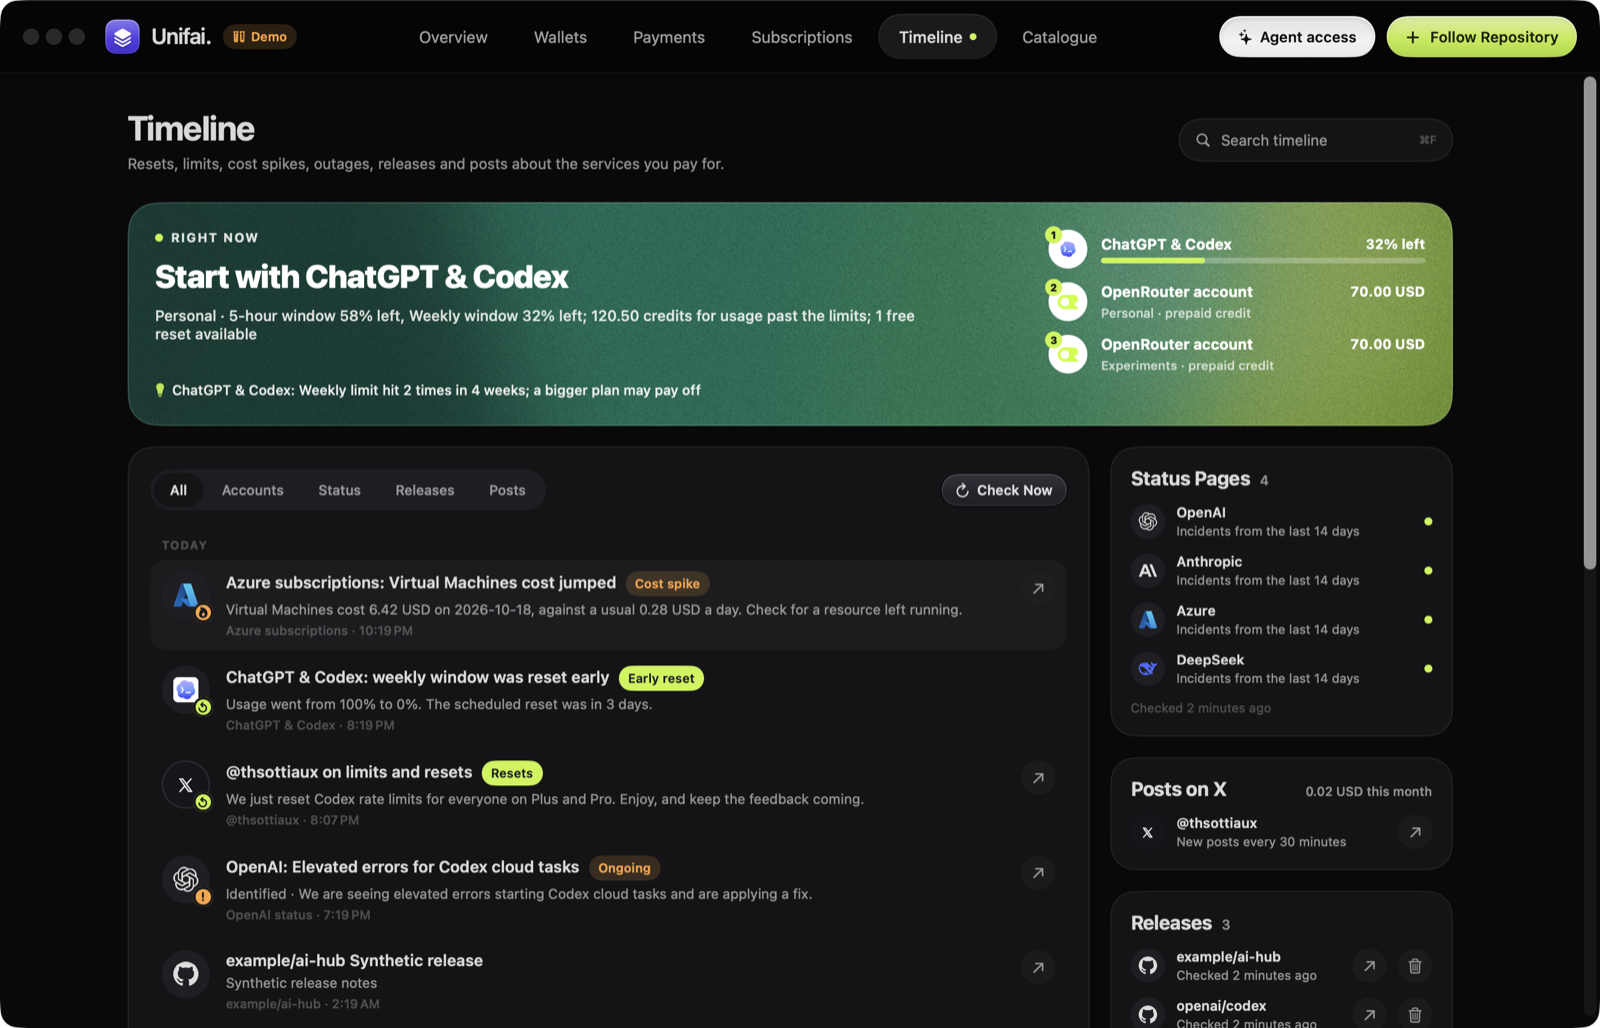
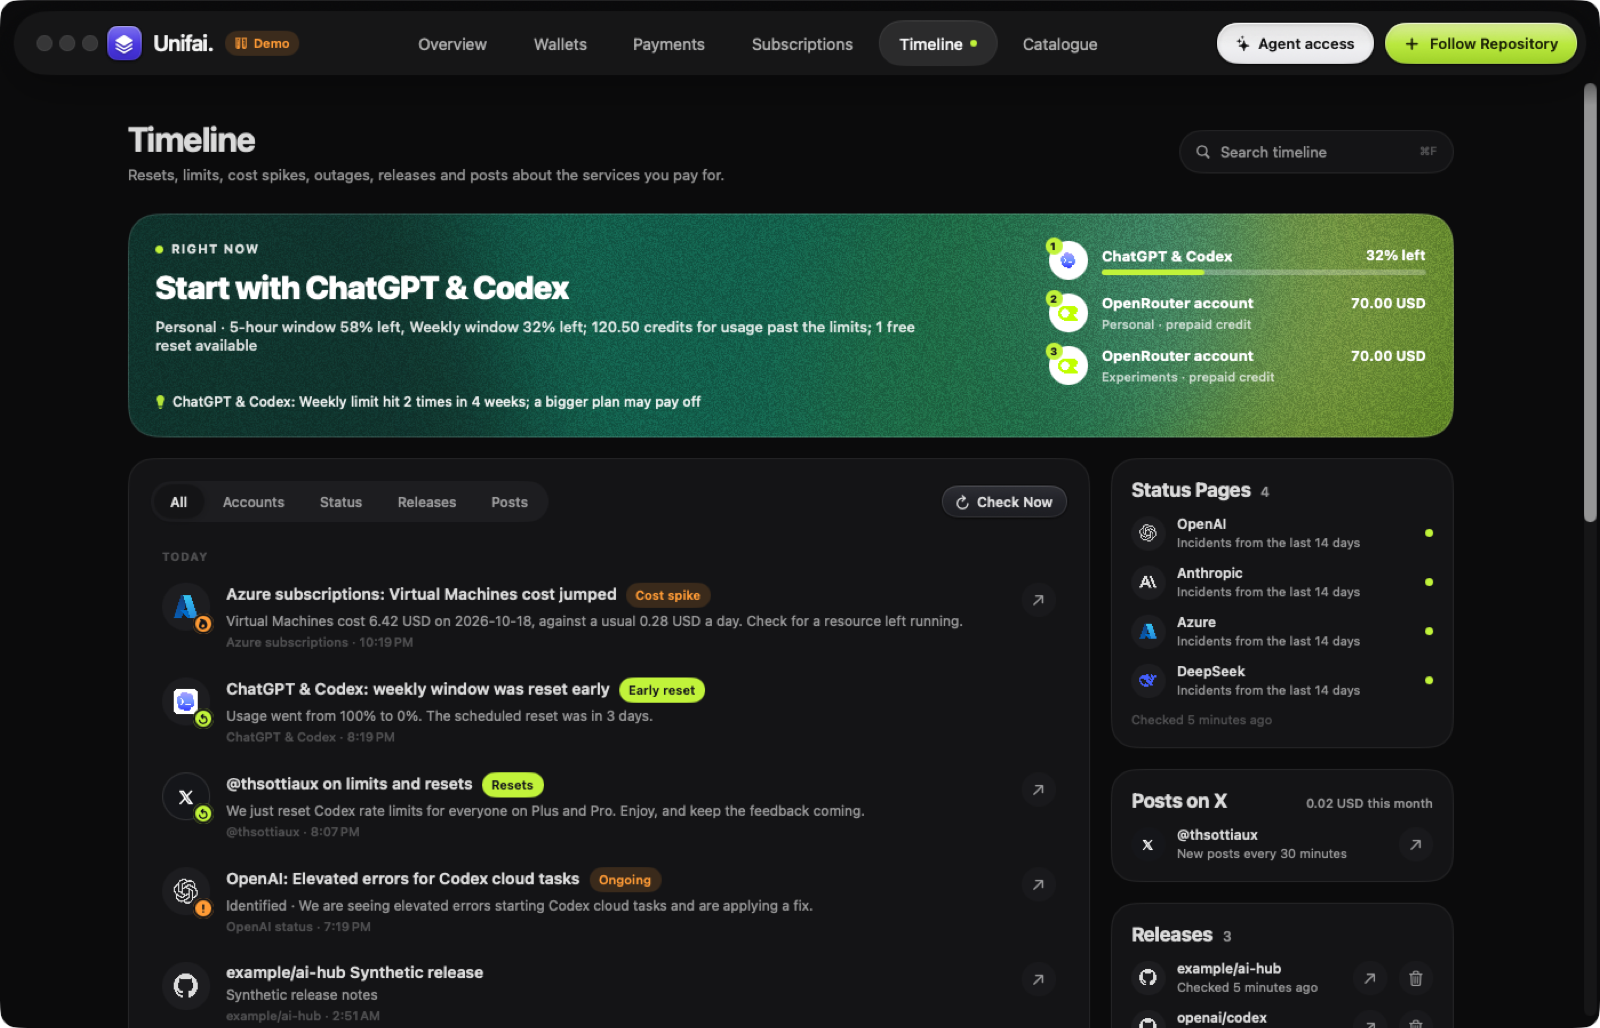
Floating glass top bar
- Top bar is a capsule inset from the window edges, with the window buttons inside its left end
- Liquid Glass on macOS 26, frosted material before; pages scroll under it with a soft fade
- X accounts listed as available in the catalogue; GitHub entry describes automatic checks
- Refreshed README screenshots

diff --git a/Sources/Unifai/MainView.swift b/Sources/Unifai/MainView.swift
@@ -62,8 +62,8 @@ struct MainView: View {
     struct Removal: Identifiable { let id = UUID(); let title: String; let action: () throws -> Void }
 
     var body: some View {
-        VStack(spacing: 0) {
-            topBar
+        // Pages scroll under the floating bar, so the glass has colour to refract.
+        ZStack(alignment: .top) {
             ScrollView {
                 VStack(alignment: .leading, spacing: 0) {
                     if let error = store.loadFailure { InlineNotice(text: error).padding(.bottom, 18) }
@@ -74,13 +74,23 @@ struct MainView: View {
                 .frame(maxWidth: 1240, alignment: .leading)
                 .frame(maxWidth: .infinity)
             }
-            .defaultScrollAnchor(.top)
+            .contentMargins(.top, FloatingBar.reserved, for: .scrollContent)
+            .contentMargins(.top, FloatingBar.reserved - 4, for: .scrollIndicators)
+            .defaultScrollAnchor(AppRuntime.initialScroll ?? .top)
             .id(destination)
             .transition(.identity)
             .background(Palette.canvas)
+            // Soft edge: content fades as it slides under the bar instead of colliding with it.
+            // Solid above the bar so nothing peeks through the gap; a soft fade below it.
+            LinearGradient(stops: [.init(color: Palette.canvas, location: 0), .init(color: Palette.canvas, location: 0.16),
+                                   .init(color: Palette.canvas.opacity(0.7), location: 0.6), .init(color: Palette.canvas.opacity(0), location: 1)],
+                           startPoint: .top, endPoint: .bottom)
+                .frame(height: FloatingBar.reserved + 18)
+                .allowsHitTesting(false)
+            topBar
         }
         .background(Palette.canvas)
-        .background(WindowConfigurator(headerHeight: 64))
+        .background(WindowConfigurator(headerHeight: FloatingBar.inset * 2 + FloatingBar.height, trafficLightsX: FloatingBar.sideInset + 20))
         .ignoresSafeArea(.container, edges: .top)
         .onChange(of: destination) { _, _ in search = "" }
         .task {
@@ -143,11 +153,12 @@ struct MainView: View {
             topBarContent(compact: false)
             topBarContent(compact: true)
         }
-        .padding(.leading, 92).padding(.trailing, 20)
-        .frame(height: 64)
-        .background(WindowDragArea())
-        .background(Palette.bar)
-        .overlay(alignment: .bottom) { Rectangle().fill(Palette.border.opacity(0.7)).frame(height: 1) }
+        // The window buttons sit inside the bar's left end.
+        .padding(.leading, 82).padding(.trailing, 8)
+        .frame(height: FloatingBar.height)
+        .background(WindowDragArea().clipShape(Capsule()))
+        .floatingGlass()
+        .padding(.top, FloatingBar.inset).padding(.horizontal, FloatingBar.sideInset)
     }
 
     private func topBarContent(compact: Bool) -> some View {
@@ -1217,6 +1228,8 @@ struct MainView: View {
                 Spacer()
                 if integration.id == "github-releases" {
                     Button("Follow Repository") { editor = .repository }.buttonStyle(PillButtonStyle(kind: .primary, compact: true))
+                } else if integration.id == "x-accounts" {
+                    Button("Set Up in Settings") { editor = .settings }.buttonStyle(PillButtonStyle(kind: .primary, compact: true))
                 } else if [.providers, .subscriptions, .cloud].contains(integration.category) {
                     if integration.status == .ready {
                         Button("Add Account") { editor = .account(integration, nil) }.buttonStyle(PillButtonStyle(kind: .primary, compact: true))

diff --git a/Sources/Unifai/Design.swift b/Sources/Unifai/Design.swift
@@ -875,15 +875,42 @@ struct AppIconArtwork: View {
 
 /// Makes the main window a single solid surface: transparent title bar over our own header,
 /// draggable from empty areas, opaque background, and traffic lights centred in the header.
+// MARK: - Floating bar
+
+/// Geometry of the floating top bar: a capsule inset from the window edges.
+enum FloatingBar {
+    static let height: CGFloat = 56
+    static let inset: CGFloat = 10
+    static let sideInset: CGFloat = 12
+    /// Space the bar takes at the top of each page.
+    static let reserved: CGFloat = inset + height + 8
+}
+
+extension View {
+    /// Liquid Glass on macOS 26 and later; a frosted capsule with a light rim before that.
+    @ViewBuilder func floatingGlass() -> some View {
+        if #available(macOS 26.0, *) {
+            self.glassEffect(.regular, in: Capsule())
+                .shadow(color: .black.opacity(0.28), radius: 18, y: 8)
+        } else {
+            self.background(Capsule().fill(.ultraThinMaterial))
+                .background(Capsule().fill(Palette.bar.opacity(0.55)))
+                .overlay(Capsule().strokeBorder(LinearGradient(colors: [Color.white.opacity(0.16), Color.white.opacity(0.04)], startPoint: .top, endPoint: .bottom), lineWidth: 1))
+                .shadow(color: .black.opacity(0.3), radius: 18, y: 8)
+        }
+    }
+}
+
 struct WindowConfigurator: NSViewRepresentable {
     var headerHeight: CGFloat = 64
+    var trafficLightsX: CGFloat = 20
     func makeNSView(context: Context) -> NSView {
         let view = NSView()
         DispatchQueue.main.async { configure(view.window, coordinator: context.coordinator) }
         return view
     }
     func updateNSView(_ view: NSView, context: Context) { DispatchQueue.main.async { configure(view.window, coordinator: context.coordinator) } }
-    func makeCoordinator() -> TrafficLights { TrafficLights(headerHeight: headerHeight) }
+    func makeCoordinator() -> TrafficLights { TrafficLights(headerHeight: headerHeight, leading: trafficLightsX) }
     private func configure(_ window: NSWindow?, coordinator: TrafficLights) {
         guard let window else { return }
         window.titlebarAppearsTransparent = true
@@ -921,9 +948,10 @@ struct WindowDragArea: NSViewRepresentable {
 /// AppKit lays them out again on resize and full-screen changes, so this re-applies after each.
 @MainActor final class TrafficLights: NSObject {
     let headerHeight: CGFloat
+    let leading: CGFloat
     private weak var window: NSWindow?
     private var observers: [NSObjectProtocol] = []
-    init(headerHeight: CGFloat) { self.headerHeight = headerHeight }
+    init(headerHeight: CGFloat, leading: CGFloat = 20) { self.headerHeight = headerHeight; self.leading = leading }
     func attach(to window: NSWindow) {
         if self.window !== window {
             self.window = window
@@ -948,7 +976,7 @@ struct WindowDragArea: NSViewRepresentable {
         let offset = (headerHeight - titlebar.frame.height) / 2
         let y = (titlebar.frame.height - buttonHeight) / 2 - offset
         for (index, button) in [close, mini, zoom].enumerated() {
-            button.setFrameOrigin(NSPoint(x: 20 + CGFloat(index) * 20, y: y))
+            button.setFrameOrigin(NSPoint(x: leading + CGFloat(index) * 20, y: y))
         }
     }
 }

diff --git a/Sources/UnifaiCore/Catalogue.swift b/Sources/UnifaiCore/Catalogue.swift
@@ -84,11 +84,11 @@ public enum Catalogue {
                   method: "Cloud Billing / AI Studio route under investigation", capabilities: "Planned: project costs and credit tracking",
                   limitation: "AI Studio prepay balance and Cloud Billing are distinct views. Exact access routes remain unverified.", source: URL(string: "https://ai.google.dev/gemini-api/docs/billing")),
             .init(id: "github-releases", name: "GitHub public releases", category: .development, status: .ready, evidence: .documented,
-                  method: "Public API · no credential", capabilities: "Latest 50 releases per repository, publication dates and original links",
-                  limitation: "Only public repositories. Manual refresh with caching, a 30-minute per-repository cooldown, at most 10 watched repositories and a shared 20-request hourly budget. GitHub shares its unauthenticated limit across your IP.", source: URL(string: "https://docs.github.com/en/rest/releases/releases")),
-            .init(id: "x-accounts", name: "X accounts & lists", category: .discovery, status: .planned, evidence: .documented,
-                  method: "Paid X API, explicit setup and budget required", capabilities: "Planned: selected-account timelines and lists",
-                  limitation: "Disabled in this build. Reads incur API costs. A followed-account feed does not reproduce the For You algorithm.", source: URL(string: "https://docs.x.com/x-api/posts/timelines/introduction")),
+                  method: "Public API · no credential", capabilities: "Recent releases in the Timeline, with release notes and which of your wallets they affect",
+                  limitation: "Only public repositories. Checked every 30 minutes while Unifai runs, with caching, at most 10 watched repositories and a shared 20-request hourly budget. GitHub shares its unauthenticated limit across your IP.", source: URL(string: "https://docs.github.com/en/rest/releases/releases")),
+            .init(id: "x-accounts", name: "X accounts", category: .discovery, status: .ready, evidence: .documented,
+                  method: "Your X API bearer token, set in Settings", capabilities: "Posts from accounts you follow in the Timeline, with reset and limit announcements highlighted",
+                  limitation: "X bills your developer account about US$0.005 per post read and US$0.01 per account lookup; Unifai reads only new posts every 30 minutes and shows the estimated cost. Lists and the For You feed are not supported.", source: URL(string: "https://docs.x.com/x-api/posts/timelines/introduction")),
             .init(id: "x-for-you", name: "X For You discovery", category: .discovery, status: .planned, evidence: .unverified,
                   method: "No supported equivalent established", capabilities: "Desired: personalized AI discovery",
                   limitation: "No route to the For You algorithm was established by the research. No browser session is read.", source: nil)

diff --git a/Sources/Unifai/UnifaiApp.swift b/Sources/Unifai/UnifaiApp.swift
@@ -55,6 +55,10 @@ struct UnifaiApp: App {
         if fixtureMode || channel == "dev", let index = args.firstIndex(of: "--destination"), args.indices.contains(index + 1) {
             AppRuntime.initialDestination = args[index + 1] == "Releases" ? .timeline : Destination(rawValue: args[index + 1])
         }
+        // Visual checks: open the first page scrolled to a fraction of its height.
+        if fixtureMode || channel == "dev", let index = args.firstIndex(of: "--test-scroll"), args.indices.contains(index + 1), let fraction = Double(args[index + 1]) {
+            AppRuntime.initialScroll = UnitPoint(x: 0, y: min(1, max(0, fraction)))
+        }
         _store = StateObject(wrappedValue: model)
     }
     var body: some Scene {
@@ -86,6 +90,7 @@ struct MainWindowCommands: Commands {
     static var fixtureMode = false
     static var channel = "release"
     static var initialDestination: Destination?
+    static var initialScroll: UnitPoint?
 
     /// Development and demo builds only: `--test-click x,y` sends a click to the main window at a
     /// point measured from its top-left corner, through normal AppKit hit-testing, without moving

diff --git a/README.md b/README.md
@@ -49,7 +49,7 @@ open ".build/Unifai Dev.app"
 
 The build uses no package dependencies and applies a local ad-hoc signature. It requires no Apple developer account.
 
-The window opens on **Overview** with an empty state. Click **Add Wallet**, or open **Catalogue** in the top bar, to add an account. The top bar switches between Overview, Wallets, Payments, Subscriptions, Timeline and Catalogue, and its lime button runs the current page's main action. A dot marks Wallets when a reading failed or went stale, Subscriptions when a renewal is due within a week, and Timeline when something important happened in the last day. Press Command-F to search the current page and Command-N for the main action. Use the menu bar stack icon for the companion. **File > Show Companion** opens the same panel; **File > Show Unifai** returns to the main window. Closing the window keeps the companion running. Quit from the app menu or companion.
+The window opens on **Overview** with an empty state. Click **Add Wallet**, or open **Catalogue** in the top bar, to add an account. The floating top bar (Liquid Glass on macOS 26) switches between Overview, Wallets, Payments, Subscriptions, Timeline and Catalogue, and its lime button runs the current page's main action. A dot marks Wallets when a reading failed or went stale, Subscriptions when a renewal is due within a week, and Timeline when something important happened in the last day. Press Command-F to search the current page and Command-N for the main action. Use the menu bar stack icon for the companion. **File > Show Companion** opens the same panel; **File > Show Unifai** returns to the main window. Closing the window keeps the companion running. Quit from the app menu or companion.
 
 ## Connect accounts and record money
 
